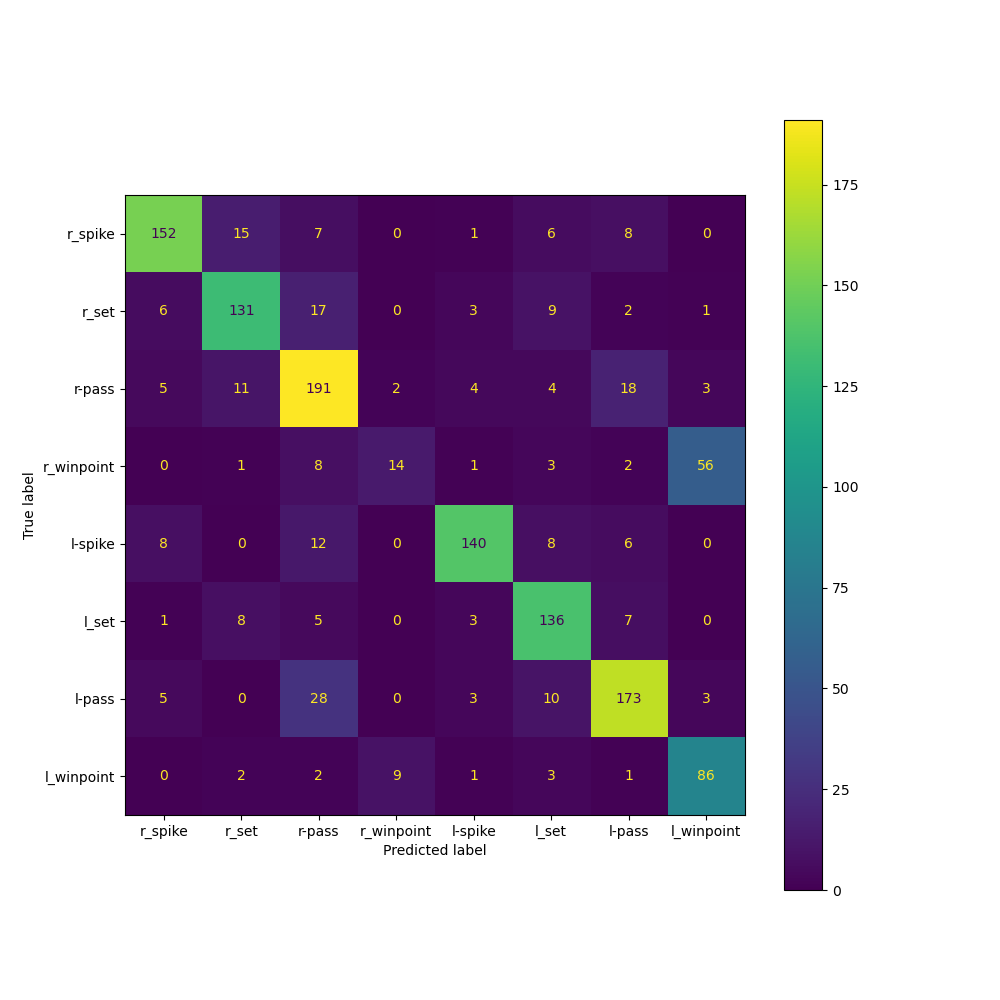
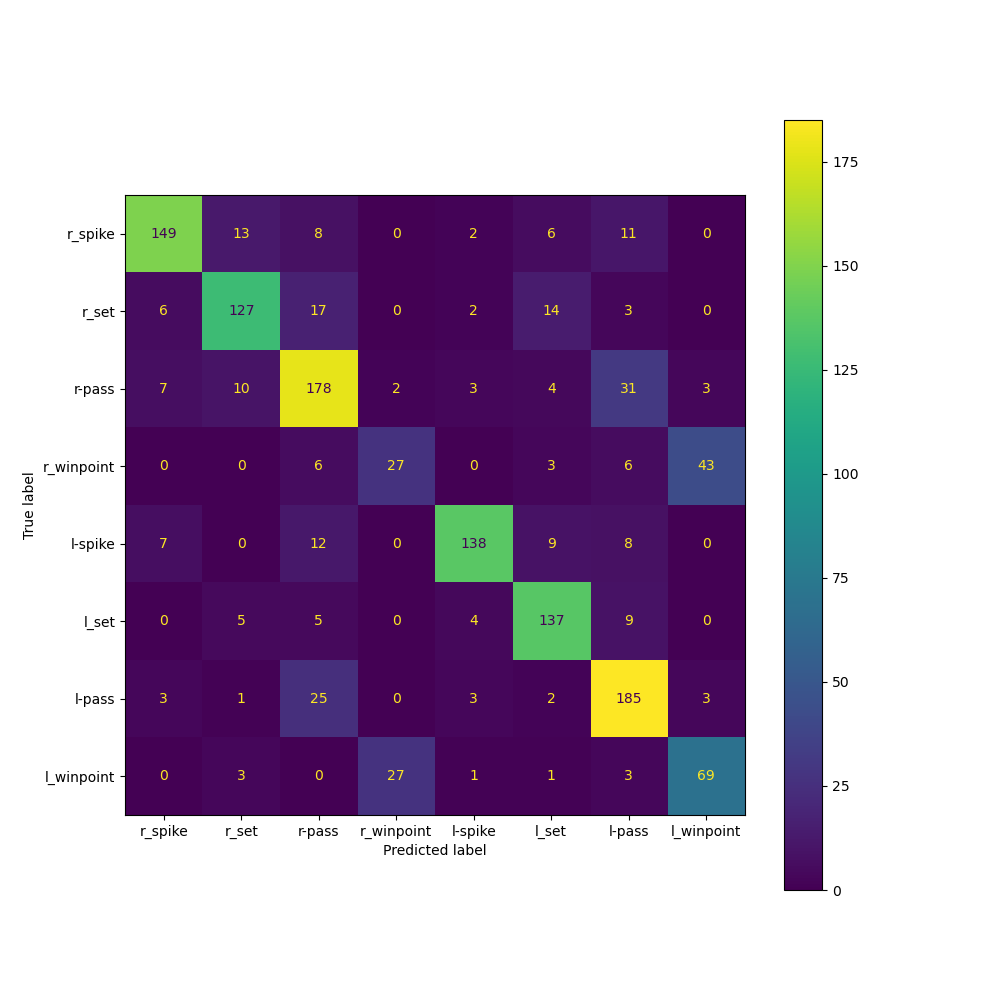
Add Baseline4 model implementation and update training logs with test dataset evaluation. Update confusion matrix and loss accuracy images.

diff --git a/models/baseline4.py b/models/baseline4.py
@@ -1,0 +1,25 @@
+import torch
+from torch import nn
+
+
+class Baseline4(nn.Module):
+    def __init__(self, input_size, hidden_size, num_layers, num_classes):
+        super().__init__()
+        self.lstm = nn.LSTM(input_size, hidden_size, num_layers, batch_first=True)
+        self.fc = nn.Sequential(
+            nn.Linear(hidden_size, 128),
+            nn.ReLU(),
+            nn.Dropout(0.5),
+            nn.Linear(128, 64),
+            nn.ReLU(),
+            nn.Dropout(0.5),
+            nn.Linear(64, num_classes),
+        )
+        self.fc = nn.Linear(hidden_size, num_classes)
+
+    def forward(self, x):
+        # x shape: (batch_size, sequence_length, num_players, num_features)
+        x = torch.max(x, dim=2)[0]  # (batch_size, sequence_length, num_features)
+        x, _ = self.lstm(x)  # (batch_size, sequence_length, hidden_size)
+        x = x[:, -1, :]  # (batch_size, hidden_size)
+        return self.fc(x)  # (batch_size, num_classes)
